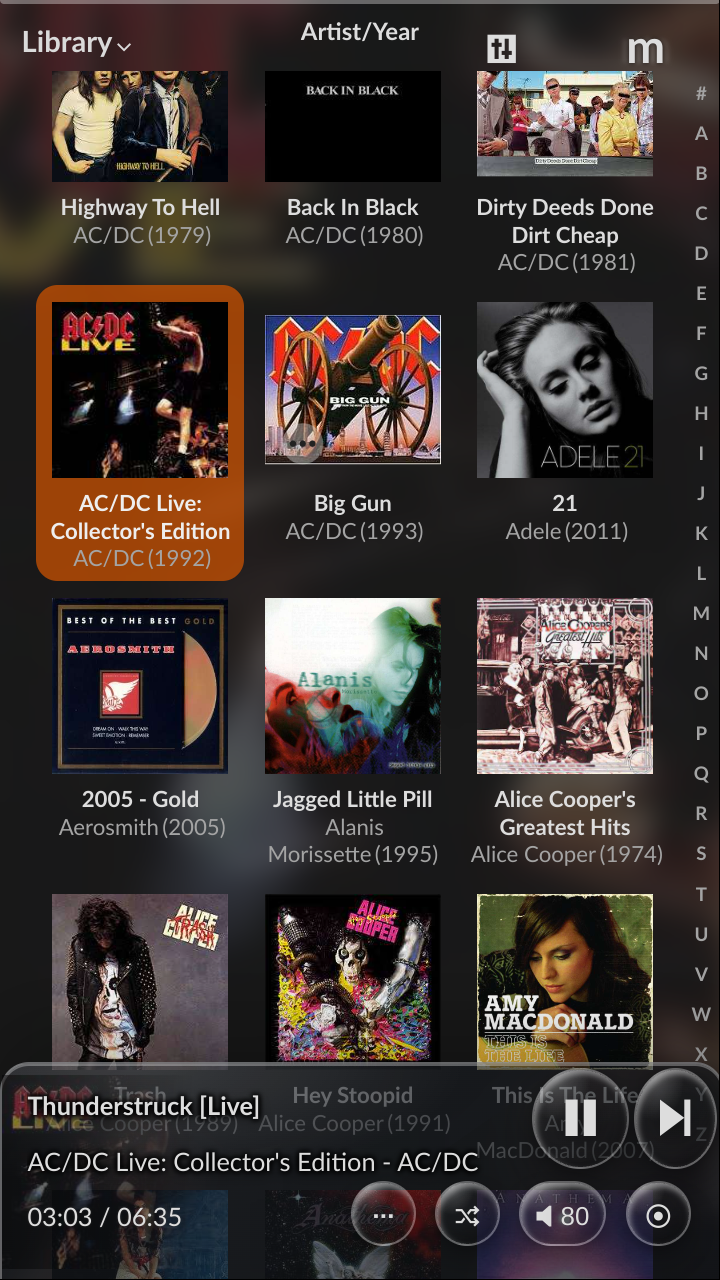
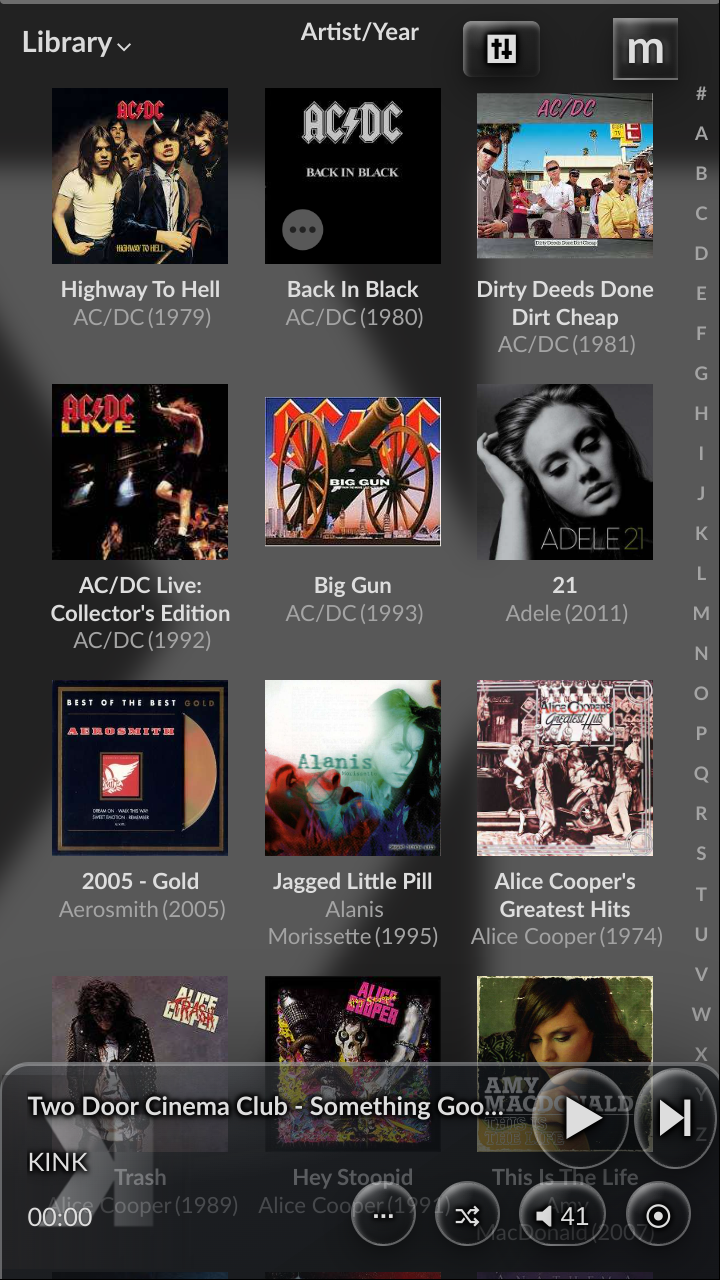
liquid glass fixes

diff --git a/LiquidGlassTheme/liquid-glass-theme.css b/LiquidGlassTheme/liquid-glass-theme.css
@@ -96,10 +96,42 @@
     backdrop-filter: blur(3px) saturate(145%);
 }
 
+/* Give every ordinary moOde action the same raised, tint-free glass material
+   as the transport controls. More specific rules below preserve menu rows,
+   transport sizing and the performance-oriented Library exceptions. */
+:root.liquid-glass-theme .btn,
+:root.liquid-glass-theme #playbar-switch {
+    background:
+        radial-gradient(ellipse at 25% 9%, rgba(255,255,255,.22), transparent 34%),
+        radial-gradient(ellipse at 72% 94%, rgba(0,0,0,.13), transparent 56%),
+        linear-gradient(145deg, rgba(255,255,255,.025), rgba(255,255,255,.008)) !important;
+    border-color: rgba(255,255,255,.32) !important;
+    box-shadow: inset 1px 2px 3px rgba(255,255,255,.46),
+                inset -2px -4px 7px rgba(0,0,0,.24),
+                0 8px 20px rgba(0,0,0,.34),
+                0 2px 5px rgba(0,0,0,.16) !important;
+    text-shadow:
+        -1px -1px 2px rgba(0,0,0,.86),
+         1px -1px 2px rgba(0,0,0,.86),
+        -1px  1px 2px rgba(0,0,0,.86),
+         1px  1px 2px rgba(0,0,0,.86),
+         0 2px 6px rgba(0,0,0,.66) !important;
+}
+
+:root.liquid-glass-theme .btn i,
+:root.liquid-glass-theme .btn .fa,
+:root.liquid-glass-theme .btn .material-icons,
+:root.liquid-glass-theme .btn svg,
+:root.liquid-glass-theme #playbar-switch i {
+    filter: drop-shadow(0 2px 6px rgba(0,0,0,.45));
+}
+
 :root.liquid-glass-theme button.btn:hover,
 :root.liquid-glass-theme button.btn:focus,
 :root.liquid-glass-theme .btn-group > .btn:hover {
-    background: rgba(255,255,255,.10) !important;
+    background:
+        radial-gradient(ellipse at 25% 9%, rgba(255,255,255,.28), transparent 36%),
+        linear-gradient(145deg, rgba(255,255,255,.10), rgba(255,255,255,.025)) !important;
     border-color: rgba(255,255,255,.30) !important;
 }
 
@@ -241,21 +273,47 @@
     vertical-align: middle !important;
 }
 
+/* The compact actions contain only an icon and should therefore remain true
+   circles on both the local portrait display and wide browser layouts. The
+   volume control is the sole labelled action and may remain a wider capsule. */
+:root.liquid-glass-theme #panel-footer #playbar-toggles .btn:not(#playbar-volume-popup-btn) {
+    width: 3rem !important;
+    min-width: 3rem !important;
+    max-width: 3rem !important;
+    padding: 0 !important;
+    border-radius: 50% !important;
+}
+
 /* On wider browser layouts the native Previous and Next glyphs are narrower
    than Play, making their content-sized glass surfaces vertically oval. Keep
    all three existing transport controls square without affecting portrait. */
 @media (min-width: 480px) {
+    :root.liquid-glass-theme #panel-footer #playbar-controls,
+    :root.liquid-glass-theme #panel-footer #playbar-toggles {
+        top: 50% !important;
+        bottom: auto !important;
+        transform: translateY(-50%) !important;
+        align-items: center !important;
+    }
+
     :root.liquid-glass-theme #panel-footer #playbar-controls .btn {
         box-sizing: border-box !important;
-        width: 4.25rem !important;
-        min-width: 4.25rem !important;
-        height: 4.25rem !important;
-        min-height: 4.25rem !important;
+        width: 3.5rem !important;
+        min-width: 3.5rem !important;
+        height: 3.5rem !important;
+        min-height: 3.5rem !important;
         padding: 0 !important;
         border-radius: 50% !important;
-        line-height: 4.25rem !important;
+        line-height: 3.5rem !important;
+        margin-top: 0 !important;
+        margin-bottom: 0 !important;
         text-align: center !important;
         vertical-align: middle !important;
+    }
+
+    :root.liquid-glass-theme #panel-footer #playbar-toggles .btn {
+        margin-top: 0 !important;
+        margin-bottom: 0 !important;
     }
 
     :root.liquid-glass-theme #panel-footer #playbar-controls .btn i {
@@ -326,6 +384,49 @@
     filter: drop-shadow(0 2px 9px rgba(0,0,0,.50));
 }
 
+/* Playback's compact icon actions are a different group from the Library
+   playbar toggles. Native wide-screen sizing makes these pills; force equal
+   dimensions while leaving the optional labelled volume control flexible. */
+:root.liquid-glass-theme #togglebtns .btn:not(.volume-popup-btn) {
+    box-sizing: border-box !important;
+    width: 3rem !important;
+    min-width: 3rem !important;
+    max-width: 3rem !important;
+    height: 3rem !important;
+    min-height: 3rem !important;
+    max-height: 3rem !important;
+    padding: 0 !important;
+    border-radius: 50% !important;
+    line-height: 1 !important;
+    text-align: center !important;
+    vertical-align: middle !important;
+}
+
+/* The desktop Playback column is constrained by the browser viewport. Keep its
+   compact bottom row circular but small enough to remain wholly on-screen when
+   browser chrome reduces the available height. Portrait keeps the larger
+   touch-friendly controls above. */
+@media (min-width: 480px) and (orientation: landscape) {
+    :root.liquid-glass-theme #togglebtns {
+        padding-top: .5rem !important;
+    }
+
+    :root.liquid-glass-theme #togglebtns .btn:not(.volume-popup-btn) {
+        width: 2.25rem !important;
+        min-width: 2.25rem !important;
+        max-width: 2.25rem !important;
+        height: 2.25rem !important;
+        min-height: 2.25rem !important;
+        max-height: 2.25rem !important;
+    }
+
+    :root.liquid-glass-theme #togglebtns .volume-popup-btn {
+        min-height: 2.25rem !important;
+        padding-top: 0 !important;
+        padding-bottom: 0 !important;
+    }
+}
+
 :root.liquid-glass-theme #playbtns .prev,
 :root.liquid-glass-theme #playbtns .next {
     width: 23vw !important;
@@ -387,4 +488,16 @@
 :root.liquid-glass-theme .siri-remote-selected * {
     color: inherit !important;
     text-shadow: 0 2px 6px rgba(0,0,0,.55) !important;
+}
+
+/* In the Library source menu, remote focus uses exactly the same row material
+   as mouse/keyboard hover. Album-grid focus keeps its more visible outline. */
+:root.liquid-glass-theme.siri-remote-navigating #viewswitch .btn.siri-remote-selected {
+    outline: none !important;
+    outline-offset: 0 !important;
+    border: none !important;
+    border-radius: 0 !important;
+    background: linear-gradient(90deg, rgba(255,255,255,.16), rgba(255,255,255,.06)) !important;
+    color: #fff !important;
+    box-shadow: inset 3px 0 0 rgba(255,255,255,.70) !important;
 }

diff --git a/SiriRemote/moode-navigation/siri-remote-navigation.js b/SiriRemote/moode-navigation/siri-remote-navigation.js
@@ -85,10 +85,10 @@
                 radial-gradient(ellipse at 72% 94%, rgba(0,0,0,.13), transparent 56%),
                 linear-gradient(145deg, rgba(255,255,255,.025), rgba(255,255,255,.008));
             border: 1px solid rgba(255,255,255,.32);
-            box-shadow: 0 24px 54px rgba(0,0,0,.42),
-                        0 6px 15px rgba(0,0,0,.18),
-                        inset 3px 6px 6px rgba(255,255,255,.46),
-                        inset -6px -10px 16px rgba(0,0,0,.24);
+            box-shadow: inset 5px 8px 10px rgba(255,255,255,.46),
+                        inset -8px -14px 22px rgba(0,0,0,.24),
+                        0 24px 54px rgba(0,0,0,.42),
+                        0 6px 15px rgba(0,0,0,.18);
             -webkit-backdrop-filter: blur(1px) saturate(155%) contrast(104%);
             backdrop-filter: blur(1px) saturate(155%) contrast(104%);
         }
@@ -124,15 +124,7 @@
             filter: blur(8px);
         }
         #siri-browser-overlay .siri-overlay-glass::before {
-            content: '';
-            position: absolute;
-            inset: 1.5%;
-            z-index: 2;
-            border-radius: 50%;
-            border-top: 2px solid rgba(255,255,255,.70);
-            border-left: 1px solid rgba(255,255,255,.32);
-            border-right: 1px solid transparent;
-            border-bottom: 1px solid rgba(0,0,0,.24);
+            content: none;
         }
         #siri-browser-overlay .siri-overlay-glass::after {
             content: '';
@@ -157,6 +149,12 @@
             align-items: center;
             justify-content: center;
             gap: .04em;
+            text-shadow:
+                -1px -1px 2px rgba(0,0,0,.92),
+                 1px -1px 2px rgba(0,0,0,.92),
+                -1px  1px 2px rgba(0,0,0,.92),
+                 1px  1px 2px rgba(0,0,0,.92),
+                 0 2px 7px rgba(0,0,0,.78);
             filter: drop-shadow(0 2px 9px rgba(0,0,0,.50));
         }
         #siri-browser-overlay .siri-overlay-label {
@@ -408,7 +406,9 @@
             content.appendChild(makeElement('siri-overlay-value', normalized.slice(7)));
         } else if (normalized.startsWith('BATTERY:')) {
             const battery = makeElement('siri-battery');
-            battery.appendChild(makeElement('', normalized.slice(8)));
+            battery.appendChild(makeElement(
+                'siri-battery-value', normalized.slice(8),
+            ));
             content.appendChild(battery);
         } else if (normalized.startsWith('DISABLED:')) {
             content.appendChild(makeElement('siri-overlay-label', 'Disabled'));

diff --git a/SiriRemote/moode-navigation/patch_header.py b/SiriRemote/moode-navigation/patch_header.py
@@ -10,15 +10,25 @@ from pathlib import Path
 
 BEGIN = "<!-- BEGIN SIRI REMOTE LIBRARY NAVIGATION -->"
 END = "<!-- END SIRI REMOTE LIBRARY NAVIGATION -->"
-SCRIPT = '<script src="js/siri-remote-navigation.js" defer></script>'
+SCRIPT = '<script src="js/siri-remote-navigation.js?v=4" defer></script>'
+PREVIOUS_SCRIPTS = [
+    '<script src="js/siri-remote-navigation.js" defer></script>',
+    '<script src="js/siri-remote-navigation.js?v=2" defer></script>',
+    '<script src="js/siri-remote-navigation.js?v=3" defer></script>',
+]
 SOURCE_ANCHOR = re.compile(r'^\s*<script src="js/scripts-panels\.js(?:\?[^\"]*)?" defer></script>\s*$')
 BUILT_ANCHOR = re.compile(r'^\s*<script src="js/main\.min\.js(?:\?[^\"]*)?" defer></script>\s*$')
 
 
 def apply(text: str) -> str:
     if BEGIN in text or END in text:
-        if text.count(BEGIN) == text.count(END) == text.count(SCRIPT) == 1:
+        if text.count(BEGIN) != 1 or text.count(END) != 1:
+            raise ValueError("invalid Siri Remote navigation marker block in header.php")
+        if text.count(SCRIPT) == 1:
             return text
+        for previous in PREVIOUS_SCRIPTS:
+            if text.count(previous) == 1:
+                return text.replace(previous, SCRIPT, 1)
         raise ValueError("invalid Siri Remote navigation marker block in header.php")
     nl = "\r\n" if "\r\n" in text else "\n"
     lines = text.splitlines()
@@ -51,7 +61,7 @@ def remove(text: str) -> str:
     if len(starts) != 1 or len(ends) != 1 or starts[0] >= ends[0]:
         raise ValueError("invalid Siri Remote navigation marker block in header.php")
     body = [line.strip() for line in lines[starts[0] + 1 : ends[0]] if line.strip()]
-    if body != [SCRIPT]:
+    if body != [SCRIPT] and body not in ([previous] for previous in PREVIOUS_SCRIPTS):
         raise ValueError("managed navigation include was changed; refusing to remove it")
     del lines[starts[0] : ends[0] + 1]
     return "".join(lines)

diff --git a/LiquidGlassTheme/patch_header.py b/LiquidGlassTheme/patch_header.py
@@ -10,8 +10,8 @@ from pathlib import Path
 
 BEGIN = "<!-- BEGIN LIQUID GLASS THEME -->"
 END = "<!-- END LIQUID GLASS THEME -->"
-STYLESHEET = '<link rel="stylesheet" href="css/liquid-glass-theme.css?v=10">'
-SCRIPT = '<script src="js/liquid-glass-theme.js?v=10" defer></script>'
+STYLESHEET = '<link rel="stylesheet" href="css/liquid-glass-theme.css?v=14">'
+SCRIPT = '<script src="js/liquid-glass-theme.js?v=14" defer></script>'
 PREVIOUS_BODIES = [
     [
         '<link rel="stylesheet" href="css/liquid-glass-theme.css">',
@@ -48,6 +48,22 @@ PREVIOUS_BODIES = [
     [
         '<link rel="stylesheet" href="css/liquid-glass-theme.css?v=9">',
         '<script src="js/liquid-glass-theme.js?v=9" defer></script>',
+    ],
+    [
+        '<link rel="stylesheet" href="css/liquid-glass-theme.css?v=10">',
+        '<script src="js/liquid-glass-theme.js?v=10" defer></script>',
+    ],
+    [
+        '<link rel="stylesheet" href="css/liquid-glass-theme.css?v=11">',
+        '<script src="js/liquid-glass-theme.js?v=11" defer></script>',
+    ],
+    [
+        '<link rel="stylesheet" href="css/liquid-glass-theme.css?v=12">',
+        '<script src="js/liquid-glass-theme.js?v=12" defer></script>',
+    ],
+    [
+        '<link rel="stylesheet" href="css/liquid-glass-theme.css?v=13">',
+        '<script src="js/liquid-glass-theme.js?v=13" defer></script>',
     ],
 ]
 SOURCE_ANCHOR = re.compile(r'^\s*<script src="js/scripts-panels\.js(?:\?[^\"]*)?" defer></script>\s*$')

diff --git a/SiriRemote/moode-navigation/test_patch_header.py b/SiriRemote/moode-navigation/test_patch_header.py
@@ -32,6 +32,18 @@ class HeaderPatchTests(unittest.TestCase):
         self.assertIn(patch_header.SCRIPT, installed)
         self.assertEqual(patch_header.remove(installed), BUILT_HEADER)
 
+    def test_previous_include_is_upgraded_and_remains_removable(self):
+        for previous_script in patch_header.PREVIOUS_SCRIPTS:
+            with self.subTest(previous_script=previous_script):
+                installed = patch_header.apply(HEADER)
+                previous = installed.replace(
+                    patch_header.SCRIPT, previous_script,
+                )
+                upgraded = patch_header.apply(previous)
+                self.assertIn(patch_header.SCRIPT, upgraded)
+                self.assertNotIn(previous_script, upgraded)
+                self.assertEqual(patch_header.remove(upgraded), HEADER)
+
     def test_changed_managed_block_is_not_removed(self):
         installed = patch_header.apply(HEADER).replace(
             patch_header.SCRIPT, '<script src="js/changed.js"></script>',

diff --git a/SiriRemote/readme.md b/SiriRemote/readme.md
@@ -370,7 +370,7 @@ Previous/Next behavior.
   <img width="350" alt="Current touchpad focus inside the optimized Album view" src="assets/siri-navigation-album.png" />
   <img width="350" alt="Current selection in the compact Library source chooser" src="assets/siri-navigation-library-source.png" />
 </p>
-<sub>Current local interface with the optional Liquid Glass theme. Left: directional touchpad focus in the square-cover Album view. Right: the high-contrast Library source chooser after a double press on Menu/Back, focused on the active source.</sub>
+<sub>Current local interface with the optional Liquid Glass theme. Left: directional touchpad focus in the square-cover Album view. Right: the Library source chooser after a double press on Menu/Back, focused on the active source with the same row highlight used for pointer or keyboard focus in a network browser.</sub>
 
 The first-generation touch area is decoded in both axes. Swipe distance and
 average speed are combined into bounded momentum: a deliberate short swipe
@@ -444,8 +444,11 @@ colours readable underneath. The overlay is self-contained and works with
 every moOde theme. Its proportions match the optional Liquid Glass controls
 when that separate theme is selected.
 Regular-weight labels and bold primary values match the visual hierarchy of
-the moOde interface. On the tested 720 x 1280 portrait display, the overlay
-center is aligned exactly with the cover-art center.
+the moOde interface. A single rim avoids a doubled white outline. All overlay
+text uses the same multidirectional contrast shadow as moOde's metadata, while
+CSS symbols and outlines receive a matching drop shadow. On the tested 720 x
+1280 portrait display, the overlay center is aligned exactly with the cover-art
+center.
 
 - Play/Pause uses the resulting state returned by `toggle_play_pause`.
 - Volume uses the actual percentage returned by `set_volume`.

diff --git a/LiquidGlassTheme/readme.md b/LiquidGlassTheme/readme.md
@@ -5,11 +5,20 @@ transparent rounded surfaces, tint-free glass controls, readable metadata over
 cover artwork, lightweight glass menus, optimized Library scrolling, and a matching transparent focus
 style when the optional SiriRemote navigation patch is installed. The Album,
 Radio, Playlist, Folder, and Tag views retain moOde's native compact playbar
-layout, while its existing Play/Pause, Next, volume, and toggle controls use the
-same round glass material as the fullscreen Playback controls. Footer controls
-have an explicit square minimum and the desktop Previous/Play/Next controls use
-fixed square boxes, preventing circular buttons from becoming vertically oval
-on wider phone, tablet, and computer layouts.
+layout, while ordinary action buttons, Play/Pause, Next, volume, and toggle
+controls use the same raised, tint-free glass material as the fullscreen
+Playback controls. Text and symbols receive matching contrast shadows so they
+remain legible over light and detailed cover artwork. Footer controls
+and fullscreen compact toggle controls use explicit square boxes. The desktop
+Previous/Play/Next controls also use fixed square boxes, preventing circular
+buttons from becoming vertically oval on wider phone, tablet, and computer
+layouts. Wide-screen footer controls are vertically centered and kept within
+the footer instead of touching or crossing the viewport edge. The compact
+fullscreen toggle row uses smaller true circles on landscape displays so it
+also remains fully visible when browser chrome reduces the viewport height.
+The theme never overrides moOde's button visibility, so unavailable or disabled
+layout actions stay hidden. Controls with a text label, such as Volume, may
+remain wider capsules.
 
 The project is independent of SiriRemote. It can be installed on a normal
 moOde system and selected from **Preferences → Appearance → Theme**, just like
